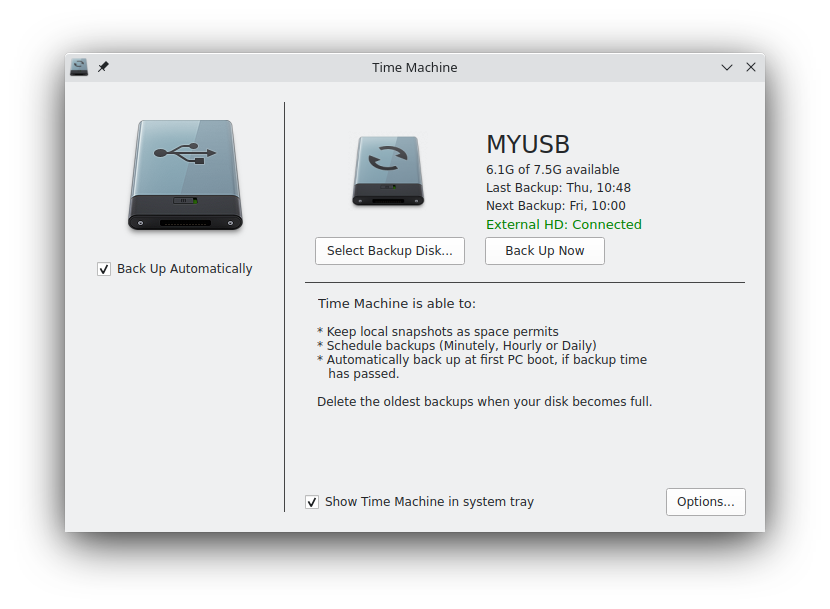
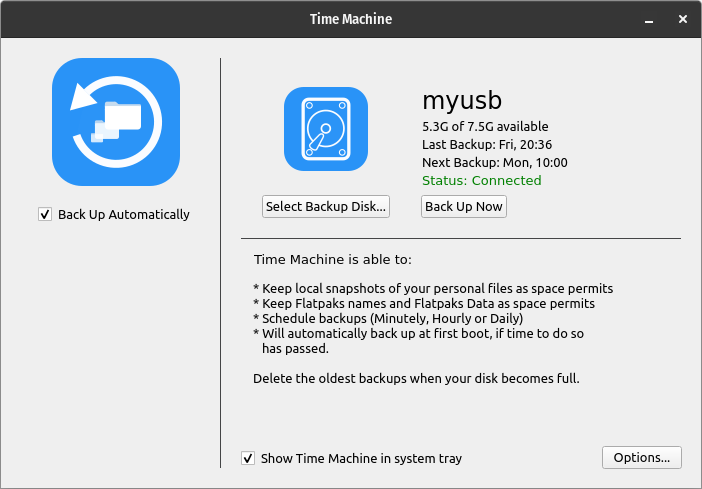
updates

diff --git a/src/welcome_screen.py b/src/welcome_screen.py
@@ -966,9 +966,8 @@ class BACKUPSCREEN(QWidget):
             self.processBar.show()
 
         if self.iniNotificationID == "2":
-            time.sleep(2)
-            sub.Popen("gsettings set org.gnome.desktop.background picture-uri 'file:///media/geovanejefferson/myusb/TMB/wallpaper.jpg'", shell=True)
-            
+            # Wait 2 seconds, to avoid notification_id conflict between (0 and 2)
+            time.sleep(2)            
             with open(src_user_config, 'w') as configfile:
                 config.set('INFO', 'notification_id', '0')
                 config.write(configfile)
@@ -977,7 +976,11 @@ class BACKUPSCREEN(QWidget):
             exit()
         
     def start_restoring(self):
-       # Call restore python
+        # Disable back button
+        self.backButton.setEnabled(False)
+        # Disable restore button
+        self.startRestoreButton.setEnabled(False)
+        # Call restore python
         sub.Popen(f"python3 {homeUser}/.local/share/timemachine/src/restore_cmd.py", shell=True)
 
 

diff --git a/src/restore_cmd.py b/src/restore_cmd.py
@@ -40,7 +40,9 @@ class RESTORE:
         try:
             self.latestDateFolder = []
             for output in os.listdir(f"{self.iniExternalLocation}/{baseFolderName}/{backupFolderName}"):
+                print(output)
                 if not "." in output:
+                    print(output)
                     self.latestDateFolder.append(output)
                     self.latestDateFolder.sort(reverse=True, key=lambda date: datetime.strptime(date, "%d-%m-%y"))
 

diff --git a/README.md b/README.md
@@ -10,6 +10,7 @@ using "Enter Time Machine" mode.
 
 ## Features:
 * Local snapshots of your personal files, one or multiple times per day.
+* Snapshots of your installed Flatpaks name and Data, so you can easily restore them.
 * "Enter Time Machine" Still in development...
 * Will automatically back up at first boot, if time to do so has passed.
 * Will automatically delete the oldest backup, until has enough space for a new backup, but will keep at least one backup left. 
@@ -28,7 +29,7 @@ Such as:
 * When the next backup will occur
 * Device connectivity
 
-Before a backup is made, Time Machine will analize and calculate your backup HD/SSD full size, free space and space needed for Time Machine to make a backup.
+Before a backup is made, Time Machine will analize and calculate your backup HD/SSD full size, free space and space needed for Time Machine's next backup.
 
 ## Create a Time Machine backup
 1. Connect an external storage device, such as a USB or HD/SSD.
@@ -42,6 +43,16 @@ Then, click on Time Machine in system tray and select "Enter Time Machine"
 (Remember, will only work if Time Machine has made at least one backup already.)
 
 Still in development...
+
+## Migration Assistant
+A Welcome Screen is in development, something similar to Apple's "Migration Assistant", a easy way to restore your files/folders and apps, after a fresh install.
+
+#### Welcome Screen
+* Will ask you to select a Time Machine HD/SSD that already has a backup inside.
+* Will ask if you want to "Restore" or "Set Up as New".
+* Will ask you to choose which information you'd like to restore.
+
+After Welcome Screen is done, all your recent files, folders and Flatpaks are automatically restore and installed.
 
 ## Requirements
 * pyside6
